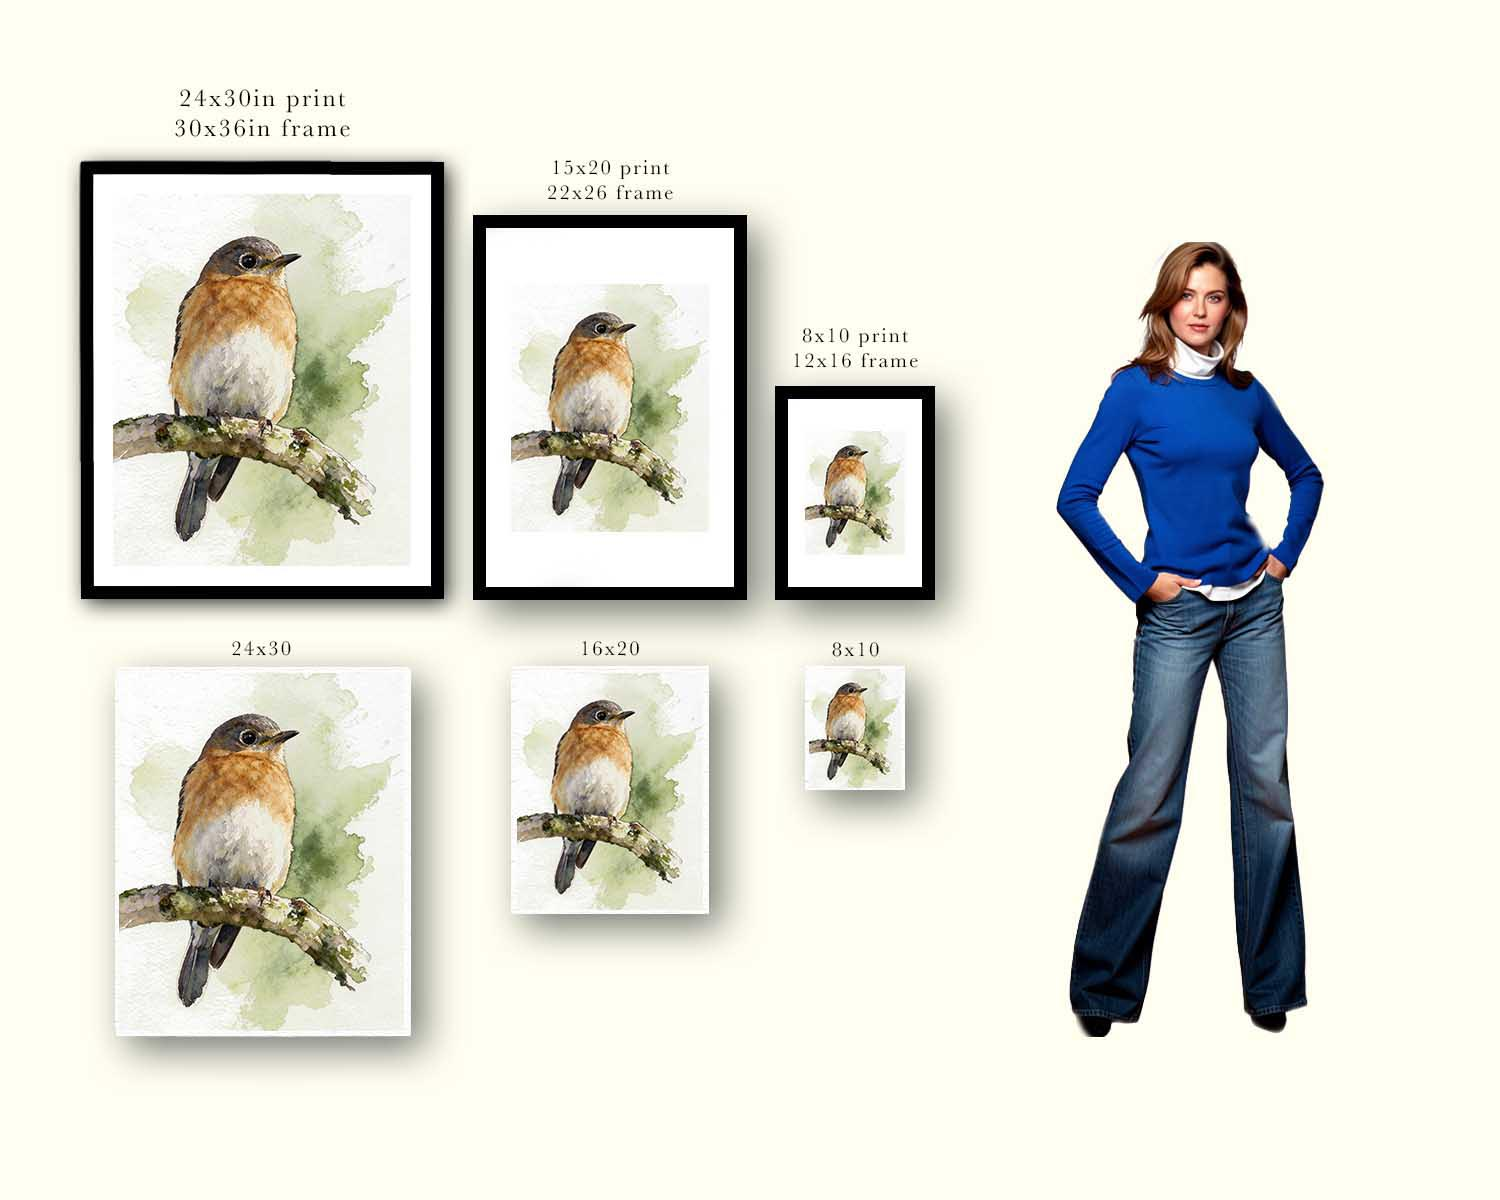
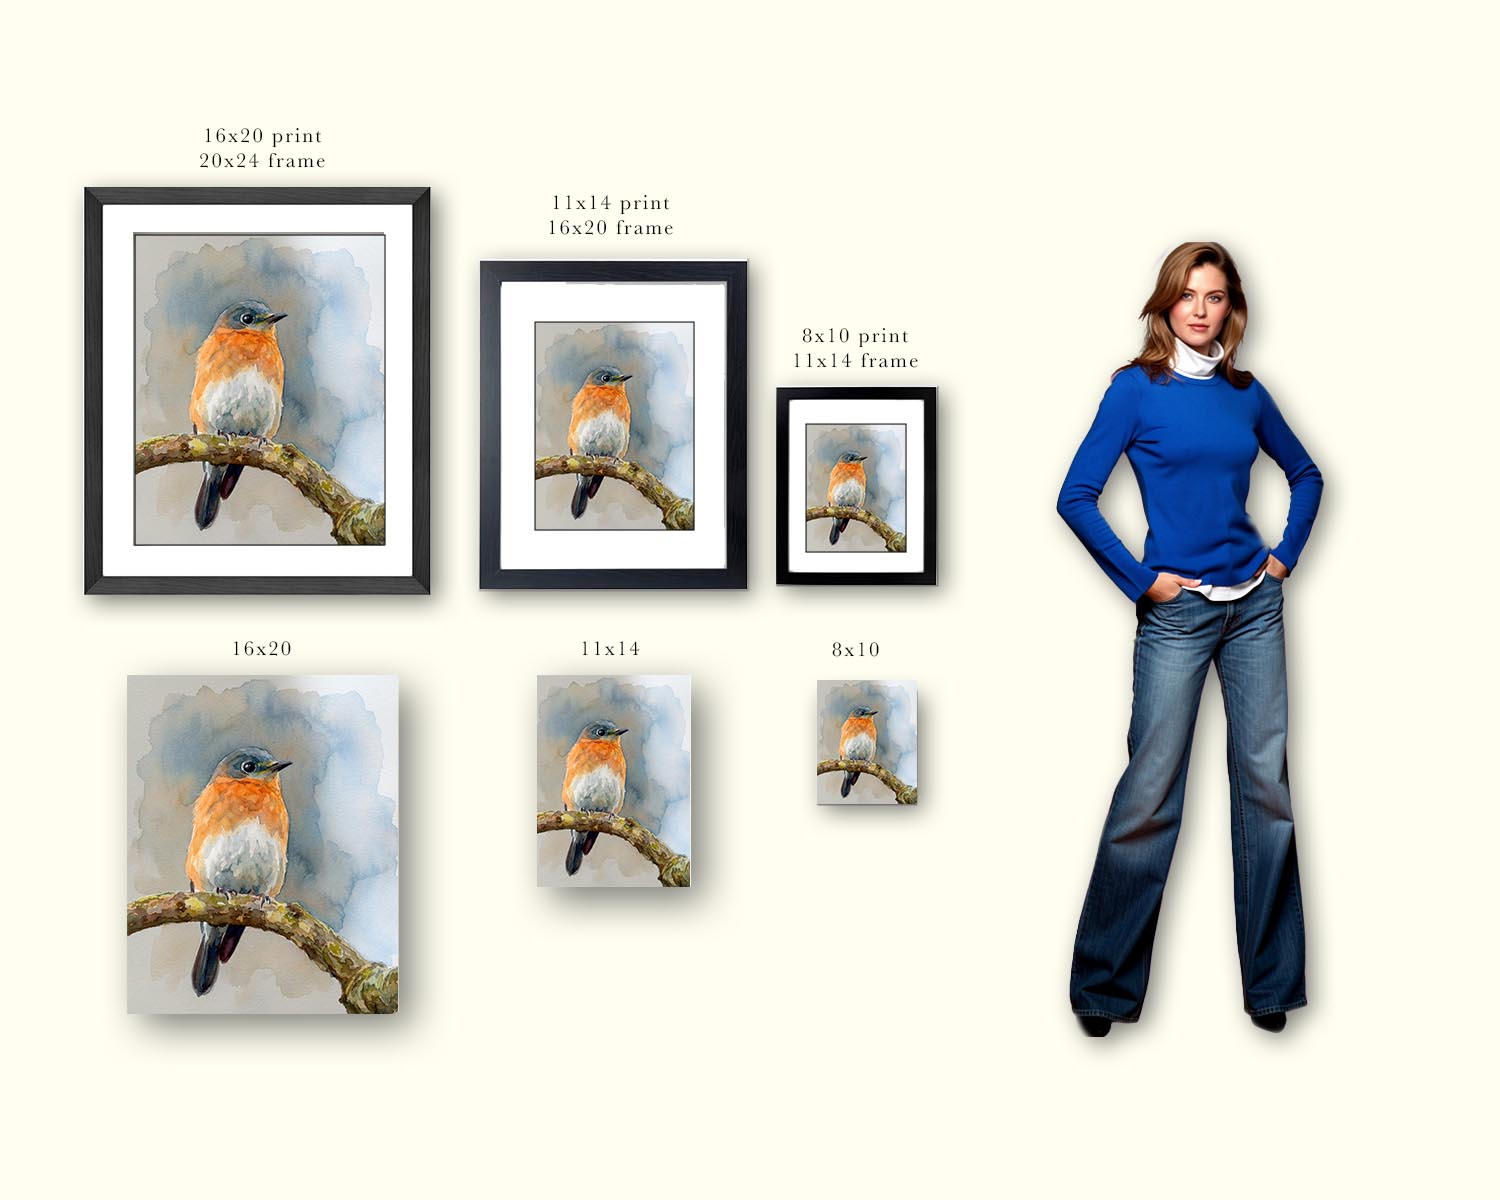
update after crash fix

diff --git a/redbud-test.html b/redbud-test.html
@@ -728,7 +728,7 @@
         <div class="gallery-main" id="galleryMain">
           <img src="images/botanical-studies/redbud.jpg" alt="Redbuds in Bloom fine art print" class="active" data-thumb="images/botanical-studies/redbud.jpg" />
           <img src="images/mockups/redbud.jpg" alt="Redbuds in Bloom shown in a room setting" data-thumb="images/mockups/redbud.jpg" />
-          <img src="images/framed-images/redbud-framed_1.jpg" alt="Framed print sample" data-thumb="images/framed-images/redbud-framed_1.jpg" />
+          <img src="images/framed-images/redbud-framed_1.jpg" alt="Framed print sample" data-thumb="images/framed-images/redbud-framed.jpg" />
           <img src="images/mockups/redbud-canvas.jpg" alt="Canvas wrap sample" data-thumb="images/mockups/redbud-canvas.jpg" />
           <img src="images/mockups/redbud-metal.jpg" alt="Metal print sample" data-thumb="images/mockups/redbud-metal.jpg" />
         </div>
